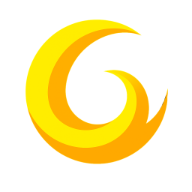
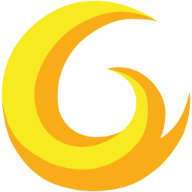
wip

diff --git a/index.html b/index.html
@@ -114,7 +114,7 @@
           <div class="flex items-center gap-4">
             <!-- Logo -->
             <div class="w-12 h-12 flex-shrink-0">
-              <img src="img/logo.png" alt="Ludovic Guénet - Laravel Vue Nuxt Developer Logo" class="w-full h-full object-contain" width="48" height="48" />
+              <img src="img/logo.svg" alt="Ludovic Guénet - Laravel Vue Nuxt Developer Logo" class="w-full h-full object-contain" width="48" height="48" />
             </div>
             <div>
               <h1 class="text-3xl sm:text-4xl font-semibold tracking-tight">Ludovic Guénet</h1>
